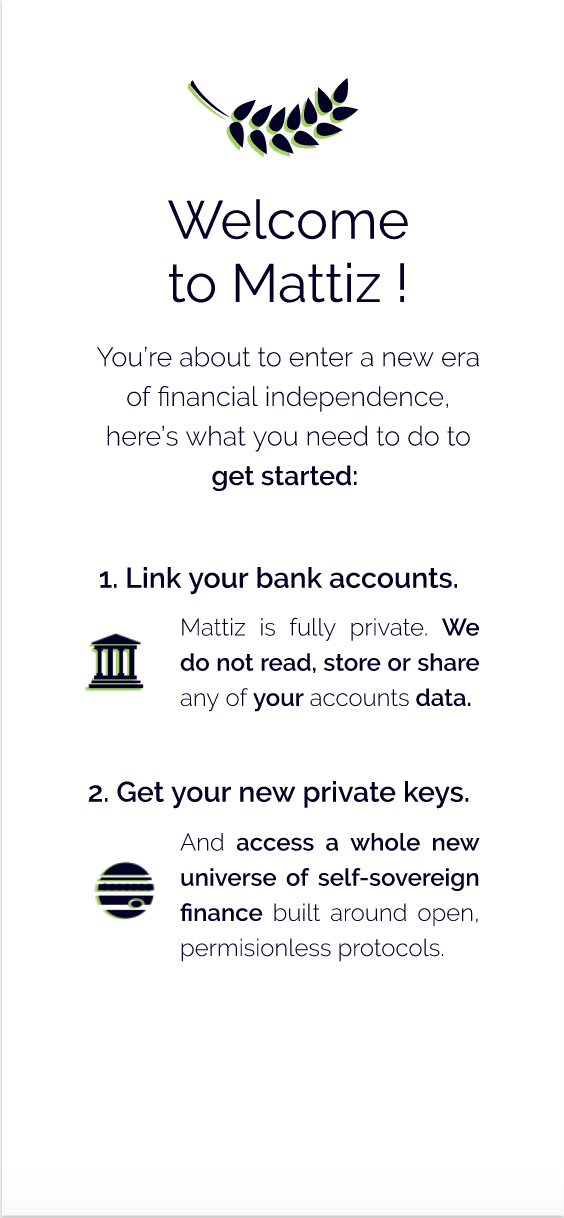
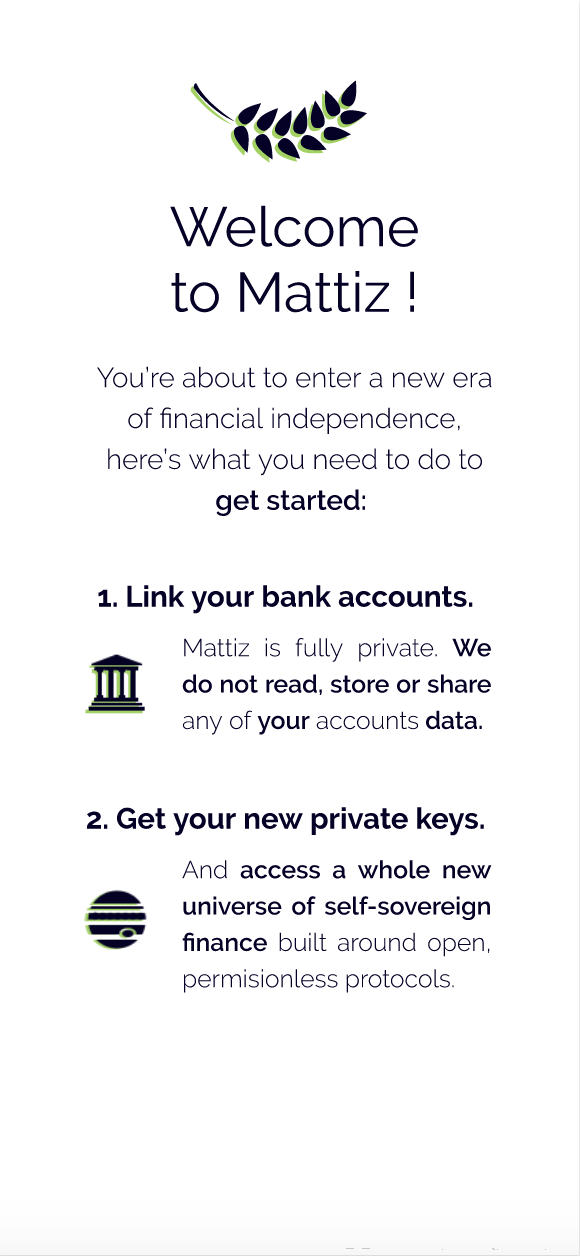
chaged AsyncStorage functions, finished plaid Login & added new images

diff --git a/src/screens/PlaidLink.js b/src/screens/PlaidLink.js
@@ -1,0 +1,64 @@
+import React, { Component } from 'react';
+import { View } from 'react-native';
+
+import PlaidAuthenticator from 'react-native-plaid-link';
+
+import { getAccessToken, setTokenInMemory, getTokenFromMemory } from '../api/auth';
+
+class PlaidLink extends Component {
+
+    // TODO: Change token functions.
+    // Create access token array and set in memory. (if, else)
+
+    onMessage = (data) => {
+        console.log(data)
+        const key = data.action.substr(data.action.lastIndexOf(':') + 1).toUpperCase();
+
+        if (key === 'CONNECTED') {
+            // Call API method to get access token.
+            getAccessToken(data.metadata.public_token)
+                // Save token in memory.
+                .then(async res => {
+                    // First check if there already exists a 'plaid-token' item in memory.
+                    await getTokenFromMemory('plaid-tokens').then(async tokens => {
+                        // If so,
+                        if (tokens) {
+                            // Parse it to get the token array,
+                            JSON.parse(tokens).push(res.access_token)
+                            // Push the new token and save again.
+                            await setTokenInMemory('plaid-tokens', JSON.stringify(tokens));
+                            // If not, 
+                        } else {
+                            // Create the token array and push the first token into it.
+                            tokens = [].push(res.access_token)
+                            // Then save it in memory.
+                            await setTokenInMemory('plaid-tokens', JSON.stringify(tokens))
+                        }
+                        // Finally, navigate user to onboardingTransition screen.
+                        this.props.navigation.navigate('onboardingTransition') 
+                    })
+                })
+                .catch(error => {
+                    // Navigate to transition screen
+                    if (error) { this.props.navigation.navigate('onboardingTransition') }
+                })
+        }
+    }
+
+    render() {
+        return (
+            <View>
+                <PlaidAuthenticator
+                    onMessage={this.onMessage}
+                    publicKey="cbc3786c0826ebad66f33cecc745dc"
+                    env="sandbox"
+                    product="auth,transactions"
+                    clientName="Mattiz"
+                    selectAccount={false}
+                />
+            </View>
+        );
+    }
+}
+
+// Export class and connect to redux state. 

diff --git a/src/api/auth.js b/src/api/auth.js
@@ -1,26 +1,16 @@
 import { AsyncStorage } from 'react-native';
 import axios from 'axios';
 
-const URL = 'http://192.168.0.15:3000/api/auth'
+const URL = 'http://192.168.0.15:3000/api'
 
-    // AUTH API FUNCTIONS //
 
-// CALL "/register" ENDPOINT.
-export const authCreateUser = (name, password) => {
-    return axios.post(URL + '/register', {name, password})
-}
+    // ASYNCSTORAGE TOKEN FUNCTIONS // 
 
-// CALL "/identify" ENDPOINT, RETURNS NAME & ID.
-export const identifyUser = (token) => {
-    return axios.post(URL + '/identify', {token})
-}
-
-// CALL "/login" ENDPOINT, RETURNS OBJECT { auth: bool, token: token }
-export const verifyUser = (userID, password) => {
-    return axios.post(URL + '/login', { _id: userID, password })
-}
-
-    // ASYNCSTORAGE TOKEN FUNCTIONS //
+/**
+ * Keys used so far:
+ *  @ 'token' - unique user token returned from the auth backend.
+ *  @ 'plaid-tokens' - array of plaid access tokens.  
+ */
 
 // CHECK IF TOKEN EXISTS, RETURNS BOOLEAN.
 export const isLoggedIn = async () => {
@@ -29,16 +19,40 @@ export const isLoggedIn = async () => {
 }
 
 // SET TOKEN IN MEMORY.
-export const setTokenInMemory = async (token) => {
-    return await AsyncStorage.setItem('token', token)
+export const setTokenInMemory = async (key, token) => {
+    return await AsyncStorage.setItem(key, token)
 }
 
 // GET TOKEN. 
-export const getTokenFromMemory = async () => {
-    return await AsyncStorage.getItem('token')
+export const getTokenFromMemory = async (key) => {
+    return await AsyncStorage.getItem(key)
 }
 
 // REMOVE TOKEN.
-export const removeTokenFromMemory = async () => {
-    return await AsyncStorage.removeItem('token')
+export const removeTokenFromMemory = async (key) => {
+    return await AsyncStorage.removeItem(key)
+}
+
+    // AUTH API FUNCTIONS //
+
+// CALL "/register" ENDPOINT.
+export const authCreateUser = (name, password) => {
+    return axios.post(URL + '/auth/register', {name, password})
+}
+
+// CALL "/identify" ENDPOINT, RETURNS NAME & ID.
+export const identifyUser = (token) => {
+    return axios.post(URL + '/auth/identify', {token})
+}
+
+// CALL "/login" ENDPOINT, RETURNS OBJECT { auth: bool, token: token }
+export const verifyUser = (userID, password) => {
+    return axios.post(URL + '/auth/login', { _id: userID, password })
+}
+
+    // PLAID API FUNCTIONS //
+
+// CALL "/get_acess_token" ENDPOINT.
+export const getAccessToken = async (publicToken) => {
+    return await axios.post(URL + '/plaid/get_access_token', { public_token: publicToken })
 }

diff --git a/src/screens/NewUserWelcomeScreen.js b/src/screens/NewUserWelcomeScreen.js
@@ -20,9 +20,9 @@ const NewUserWelcomeScreen = (props) => {
                         onPress={ () => props.navigation.navigate('PlaidLink') }
                         ViewComponent={ LinearGradient }
                         linearGradientProps={{
-                            colors: ['rgba(4, 0, 38, 1)', 'rgba(163, 209, 100, 1)'],
-                            start: { x: 0.3, y: 0.5 },
-                            end: { x:1, y: 0.5 },
+                            colors: ['rgba(163, 209, 100, 1)', 'rgba(4, 0, 38, 1)'],
+                            start: { x: 0, y: 0.5 },
+                            end: { x: 1, y: 0.5 },
                         }}
                     />
                 </View>
@@ -42,9 +42,10 @@ const styles = StyleSheet.create({
         fontFamily: 'Raleway'
     },
     buttonStyle: {
-        margin: 12, 
+        margin: 20, 
         marginTop: 690, 
         height: 60, 
+        borderRadius: 10,
         backgroundColor: 'transparent'
     }
 

diff --git a/src/navigator/loggedOut/Onboarding.js b/src/navigator/loggedOut/Onboarding.js
@@ -1,8 +1,9 @@
 import { createStackNavigator } from 'react-navigation';
 
-// Components.
+// Screens.
 import SignUpForm from '../../screens/SignUpForm';
 import NewUserWelcomeScreen from '../../screens/NewUserWelcomeScreen';
+import PlaidLink from '../../screens/PlaidLink';
 
 
 const OnboardingNavigator = createStackNavigator({
@@ -14,6 +15,12 @@ const OnboardingNavigator = createStackNavigator({
     },
     Welcome: {
         screen: NewUserWelcomeScreen,
+        navigationOptions: {
+            header: null,
+        }
+    },
+    PaidLink: {
+        screen: PlaidLink,
         navigationOptions: {
             header: null,
         }

diff --git a/src/screens/SignUpForm.js b/src/screens/SignUpForm.js
@@ -32,7 +32,7 @@ class SignUpForm extends Component {
             authCreateUser(username, password).then(res => {
                 if (res.data.auth) {
                     // If token, save it in memory
-                    setTokenInMemory(res.data.token)
+                    setTokenInMemory('token', res.data.token)
                     // And set user in redux state.
                     this.props.setUserInReduxState({username})
                     // Navigate user to onboarding set up. 

diff --git a/src/screens/InitialLoadingScreen.js b/src/screens/InitialLoadingScreen.js
@@ -15,7 +15,7 @@ class InitialLoadingScreen extends Component {
 
     async initiateFunction() {
         // Get token from memory if there is one.
-        let token = await getTokenFromMemory()
+        let token = await getTokenFromMemory('token')
         // Check if there is token
         !token ?
         // If there is no token, go to signUpForm.

diff --git a/src/screens/OutScreen.js b/src/screens/OutScreen.js
@@ -22,7 +22,7 @@ class OutScreen extends Component {
 
     async componentWillMount() {
         // Get token from memory if there is one.
-        let token = await getTokenFromMemory()
+        let token = await getTokenFromMemory('token')
         // Check if there is token
         !token ?
         // If there is no token, go to signUpForm.

diff --git a/src/screens/Settings.js b/src/screens/Settings.js
@@ -15,6 +15,8 @@ class Settings extends Component {
     async onLogout() {
         // Set initial state back in redux.
         this.props.deleteUserFromReduxState();
+        // Remove token from memory.
+        removeTokenFromMemory('token');
         // Navigate user out.
         this.props.navigation.navigate('Login')
     }
